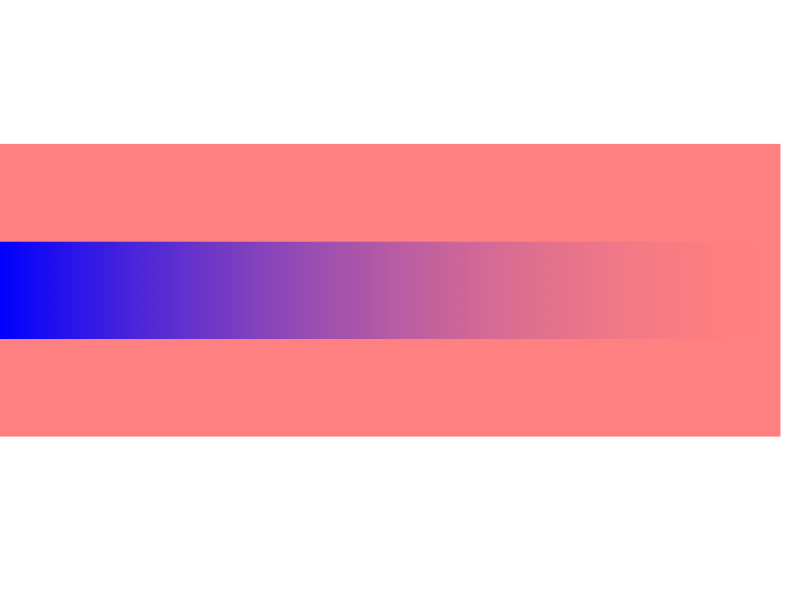
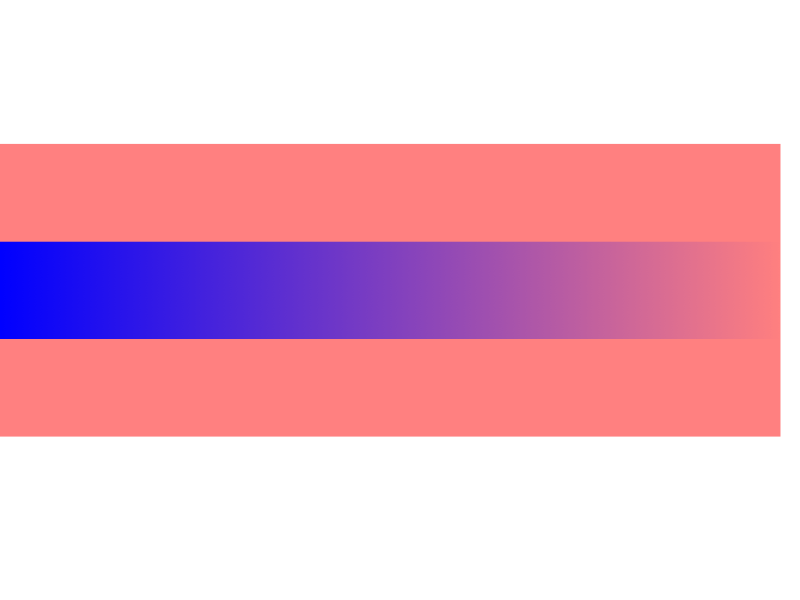
SVG Mask should take 'color-interpolation' into account to determine the color space of the mask image https://bugs.webkit.org/show_bug.cgi?id=69076
Source/WebCore: 

Reviewed by Simon Fraser.
        
SVG Masks should take 'color-interpolation' into account to determine the color space of the mask image.
The behavior was changed in SVG 1.1 SE. The color space of the mask image gets defined by the computed value of the
'color-interpolation' property. This will switch the default color space from linearRGB to sRGB for mask images and
is a performance improvement for platforms without native support for linearRGB color space. The
color space transformation can be avoided.

Test: svg/custom/grayscale-gradient-mask-2.svg

* rendering/svg/RenderSVGResourceMasker.cpp:
(WebCore::RenderSVGResourceMasker::applyResource):
(WebCore::RenderSVGResourceMasker::drawContentIntoMaskImage):
* rendering/svg/RenderSVGResourceMasker.h:

LayoutTests: 

Reviewed by Simon Fraser.
        
Added a new test case to check the behavior of SVG Masks on different values for the 'color-interpolation' property.
Since the default color space of the mask image changes from linearRGB to sRGB, a test needed an update.

* platform/mac/svg/custom/grayscale-gradient-mask-2-expected.png: Added.
* platform/mac/svg/custom/grayscale-gradient-mask-2-expected.txt: Added.
* platform/mac/svg/custom/grayscale-gradient-mask-expected.png:
* platform/mac/svg/custom/grayscale-gradient-mask-expected.txt:
* svg/custom/grayscale-gradient-mask-2.svg: Added.

git-svn-id: https://svn.webkit.org/repository/webkit/trunk@96470 268f45cc-cd09-0410-ab3c-d52691b4dbfc

Changed region(s): [[0.125, 0.39, 0.875, 0.57]]

diff --git a/Source/WebCore/rendering/svg/RenderSVGResourceMasker.cpp b/Source/WebCore/rendering/svg/RenderSVGResourceMasker.cpp
@@ -106,7 +106,11 @@ bool RenderSVGResourceMasker::applyResource(RenderObject* object, RenderStyle*, 
         if (!maskElement)
             return false;
 
-        if (!SVGImageBufferTools::createImageBuffer(absoluteTargetRect, clampedAbsoluteTargetRect, maskerData->maskImage, ColorSpaceLinearRGB))
+        ASSERT(style());
+        const SVGRenderStyle* svgStyle = style()->svgStyle();
+        ASSERT(svgStyle);
+        ColorSpace colorSpace = svgStyle->colorInterpolation() == CI_LINEARRGB ? ColorSpaceLinearRGB : ColorSpaceDeviceRGB;
+        if (!SVGImageBufferTools::createImageBuffer(absoluteTargetRect, clampedAbsoluteTargetRect, maskerData->maskImage, colorSpace))
             return false;
 
         GraphicsContext* maskImageContext = maskerData->maskImage->context();
@@ -117,7 +121,7 @@ bool RenderSVGResourceMasker::applyResource(RenderObject* object, RenderStyle*, 
         maskImageContext->translate(-clampedAbsoluteTargetRect.x(), -clampedAbsoluteTargetRect.y());
         maskImageContext->concatCTM(absoluteTransform);
 
-        drawContentIntoMaskImage(maskerData, maskElement, object);
+        drawContentIntoMaskImage(maskerData, colorSpace, maskElement, object);
     }
 
     if (!maskerData->maskImage)
@@ -127,7 +131,7 @@ bool RenderSVGResourceMasker::applyResource(RenderObject* object, RenderStyle*, 
     return true;
 }
 
-void RenderSVGResourceMasker::drawContentIntoMaskImage(MaskerData* maskerData, const SVGMaskElement* maskElement, RenderObject* object)
+void RenderSVGResourceMasker::drawContentIntoMaskImage(MaskerData* maskerData, ColorSpace colorSpace, const SVGMaskElement* maskElement, RenderObject* object)
 {
     GraphicsContext* maskImageContext = maskerData->maskImage->context();
     ASSERT(maskImageContext);
@@ -155,7 +159,9 @@ void RenderSVGResourceMasker::drawContentIntoMaskImage(MaskerData* maskerData, c
     maskImageContext->restore();
 
 #if !USE(CG)
-    maskerData->maskImage->transformColorSpace(ColorSpaceDeviceRGB, ColorSpaceLinearRGB);
+    maskerData->maskImage->transformColorSpace(ColorSpaceDeviceRGB, colorSpace);
+#else
+    UNUSED_PARAM(colorSpace);
 #endif
 
     // Create the luminance mask.

diff --git a/Source/WebCore/rendering/svg/RenderSVGResourceMasker.h b/Source/WebCore/rendering/svg/RenderSVGResourceMasker.h
@@ -57,7 +57,7 @@ public:
     static RenderSVGResourceType s_resourceType;
 
 private:
-    void drawContentIntoMaskImage(MaskerData*, const SVGMaskElement*, RenderObject*);
+    void drawContentIntoMaskImage(MaskerData*, ColorSpace, const SVGMaskElement*, RenderObject*);
     void calculateMaskContentRepaintRect();
 
     FloatRect m_maskContentBoundaries;
